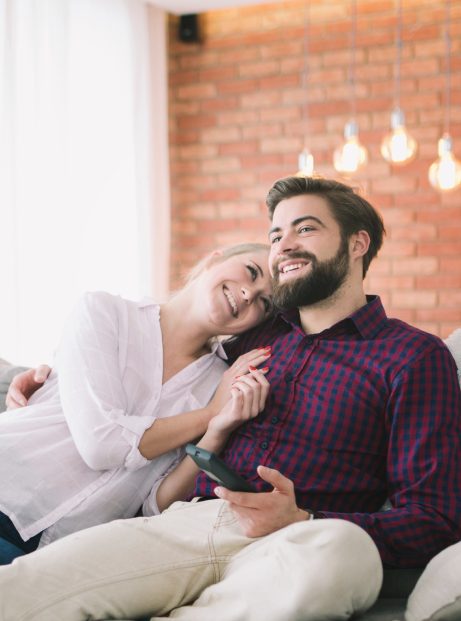
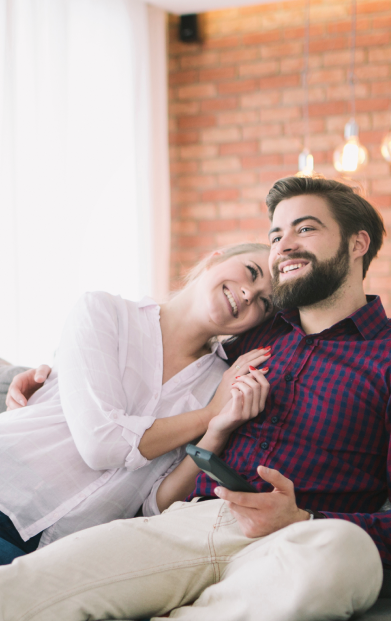
updated commit

diff --git a/style/index.css b/style/index.css
@@ -11,19 +11,19 @@ body {
 header {
     display: flex;
     justify-content: space-between;
-    /* align-content: space-between; */
     padding: 0 60px;
-    background-color: white;   
+    background-color: white;
+    /* height: 40px; */
+      
 }
 
 i.menu-icon {
     display: none;
 }
-  
+
 
 ul {
     list-style-type: none;
-    /* margin-left: 700px;   */
 }
 
 li {
@@ -40,20 +40,14 @@ a {
 
 
 .hero-section {
-    /* height: 114vh;
-    width: 100%;
-    background-image: url("../images/Image\ \(1\).png");
-    background-size: cover; */
-    position: relative;
-}
-
-.hero-section-img {
     height: 114vh;
     width: 100%;
     background-image: url("../images/Image\ \(1\).png");
     background-size: cover;
-   
+    position: relative;
+    
 }
+
 
 .hero-section-img-mobile {
     display: none;
@@ -61,10 +55,10 @@ a {
 
 .section-hero {
     border: 1px solid white;
-    border-top-right-radius: 70px;
-    border-bottom-right-radius: 70px;
+    border-top-right-radius: 50px;
+    border-bottom-right-radius: 50px;
     width: 30%;
-    padding: 40px;
+    padding: 20px 30px;
     background-color: white;
     position: absolute;
     top: 150px;
@@ -153,11 +147,16 @@ h5 {
 
 /* For Tablet */
 
-@media(max-width: 768px) {
+@media(max-width: 769px) {
     
+    img.img-logo {
+        width: 80px;
+        margin-top: 13px;
+    }
+
     ul {
-        margin: 25px;
-        margin-left: 90px;
+        margin: 20px;
+        margin-right: 0;
     }
     
     .hero-section {
@@ -175,6 +174,7 @@ h5 {
 
     h1 {
         font-size: 1.9rem;
+        margin: 0;
     }
 
     .img-we {
@@ -227,7 +227,7 @@ h5 {
 
 /* For Mobile Phone */
 
-@media screen and (max-width: 425px) {
+@media (max-width: 427px) {
     
     .ul {
         display: none;
@@ -237,21 +237,65 @@ h5 {
         display: inline-flex;
     }
 
-    .hero-section-img-mobile {
-        /* height: 50vh; */
-        width: 100%;
-        /* background-image: url("../images/Image\ \(1\)....png");
-        background-size: cover; */
+    .hero-section {
+        background-image: none;
     }
 
-    .hero-section-img-mobile img {
+    .section-hero {
+        height: 17vh;
+        width: 85vw;
+        top: 15px;
+        border-top-right-radius: 25px;
+        border-bottom-right-radius: 25px;
+        padding-right: 0;
+    }
+
+    .hero-section-img-mobile {
+        display: flex;
+        width: 100%;
+    }
+
+    h1 {
+        font-size: 38px;
+        line-height: 30px;
+    }
+
+    p {
+        font-size: 13px;
+    }
+
+    .future-section {
+        padding: 0;
+    }
+
+    .sub-future {
+        flex-direction: column;
+    }
+
+    .img-2 {
+        border-top-right-radius: 15px;
+    }
+
+    /* .pic {
+        
+    } */
+
+    .the-future {
+        width: 224px;
+        border-top-right-radius: 0;
+        border-bottom-right-radius: 15px;
+        border-bottom-left-radius: 15px;
+        /* padding: 30px; */
+    }
+
+    /* .hero-section-img-mobile img {
         width: 100%;
         height: 100%;
-    } 
+    }  */
 
-    .hero-section-img {
+    /* .hero-section-img {
         display: none;
-    }
+    } */
 
     
 
@@ -259,12 +303,12 @@ h5 {
         position: none;
     } */
 
-    .section-hero {
+    /* .section-hero {
         border-top-right-radius: 30px;
         border-bottom-right-radius: 30px;
         width: 80vw;
         height: 23vh;
         padding: 20px;
         top: 0px;
-    }
+    } */
 }

diff --git a/index.html b/index.html
@@ -28,13 +28,9 @@
     </header>
     
     <div class="hero-section">
-        <div class="hero-section-img">
-            <!-- <img src="./images/Image (1)....png" alt=""> -->
-        </div>
-
-        <div class="hero-section-img-mobile">
-            <img src="./images/Image (1)....png" alt="">
-        </div>
+        
+        <img src="images\Image (1)....png" alt="" class="hero-section-img-mobile">
+        
 
         <div class="section-hero">
             <h1>
@@ -52,10 +48,10 @@
     <div class="future-section">
         <div class="sub-future">
             <div class="pic">
-                <img src="./images/Rectangle 225.png" alt="" srcset="" class="img-we">
-                <img src="./images/image 15.png" alt="" srcset=""  class="img-we">
-                <img src="./images/image 14.png" alt="" srcset=""  class="img-we">
-                <img src="./images/image 13.png" alt="" srcset=""  class="img-we">
+                <img src="./images/Rectangle 225.png" alt="" srcset="" class="img-we img-1">
+                <img src="./images/image 15.png" alt="" srcset=""  class="img-we img-2">
+                <img src="./images/image 14.png" alt="" srcset=""  class="img-we img-3">
+                <img src="./images/image 13.png" alt="" srcset=""  class="img-we img-4">
             </div>
 
             <div class="the-future">
